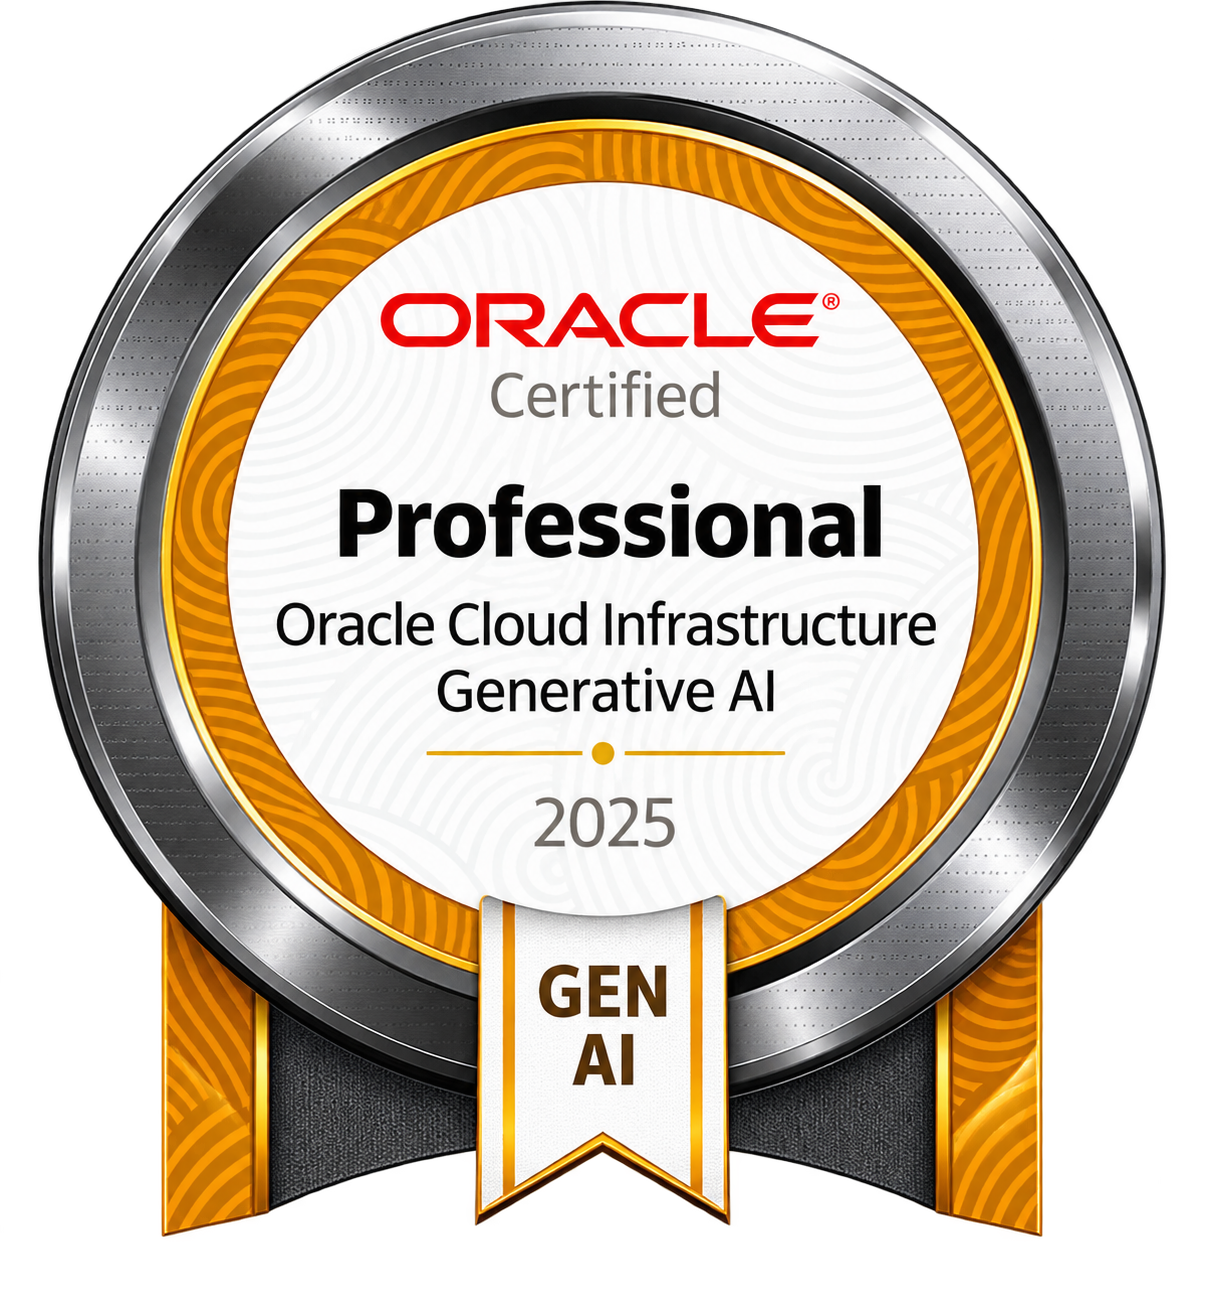
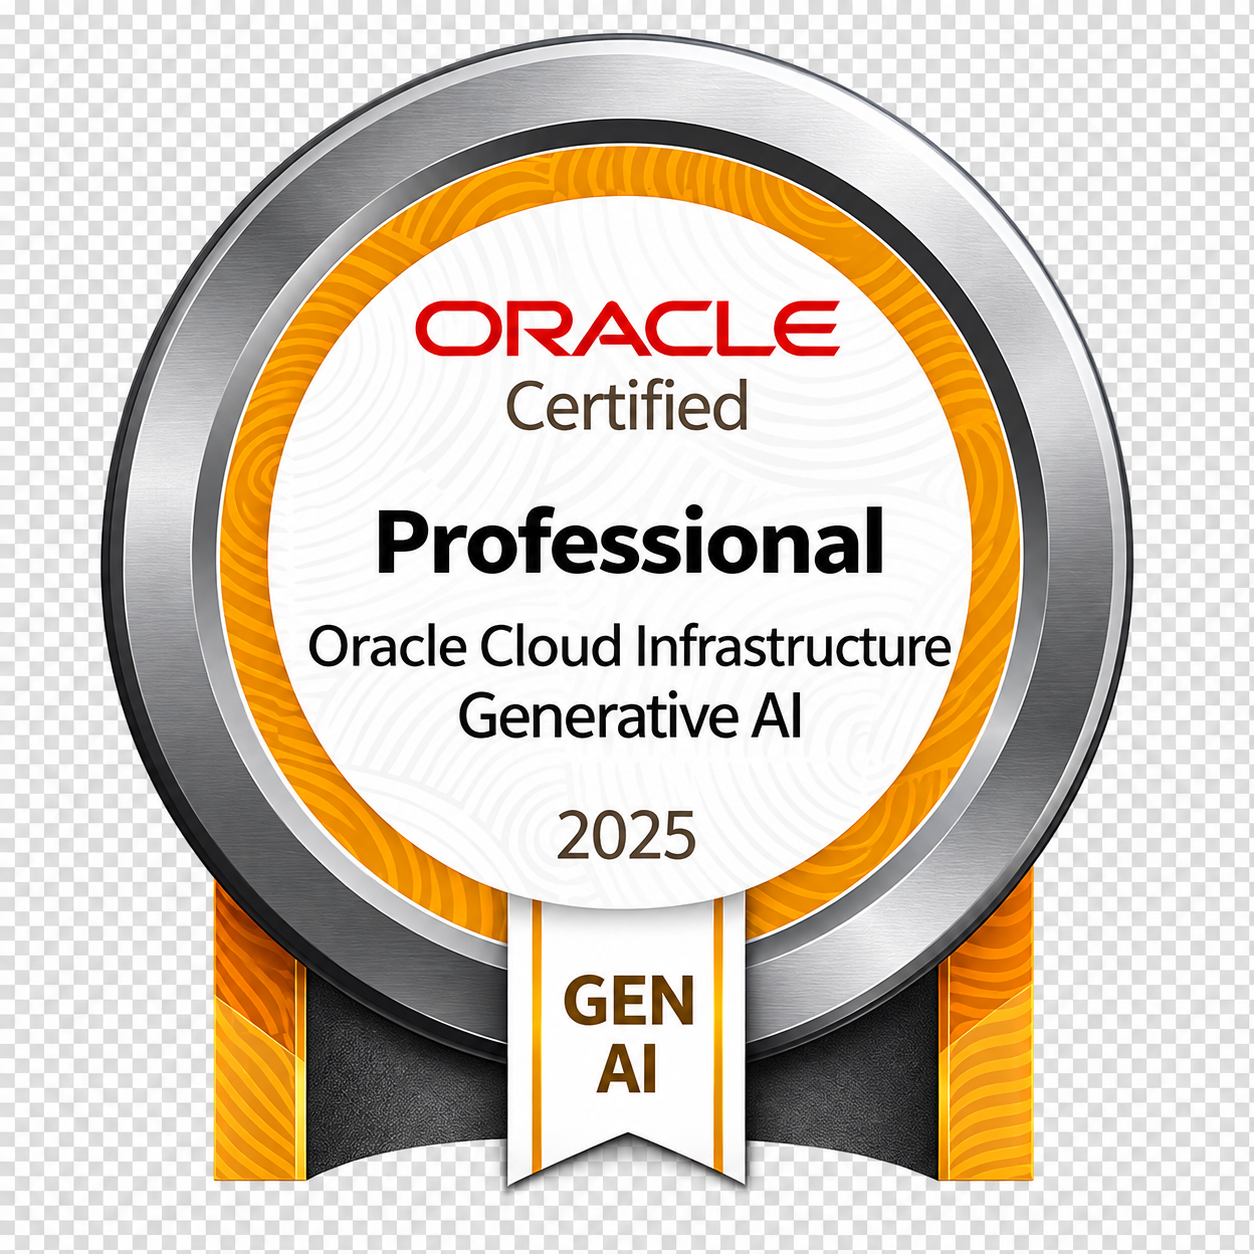
sizing

diff --git a/README.md b/README.md
@@ -134,7 +134,7 @@
 &nbsp;&nbsp;&nbsp;
 [<img src="./public/Oracle-CloudInfraFoundation.png" width="125">](https://catalog-education.oracle.com/ords/certview/sharebadge?id=99CFC74D35439D6E14E20A7FCB6CC00BA6D995486CD55599F63CE68FFCA9BBB4)
 &nbsp;&nbsp;&nbsp;
-[<img src="./public/Oracle-CouldInfraGenAI.png" width="100">](https://catalog-education.oracle.com/ords/certview/sharebadge?id=18DF72FDDB26A58F948D8770230C380797608D87F26104CF561F4A0AA9C2F6BB)
+[<img src="./public/Oracle-CouldInfraGenAI.png" width="125">](https://catalog-education.oracle.com/ords/certview/sharebadge?id=18DF72FDDB26A58F948D8770230C380797608D87F26104CF561F4A0AA9C2F6BB)
 
 </p>
 ---
